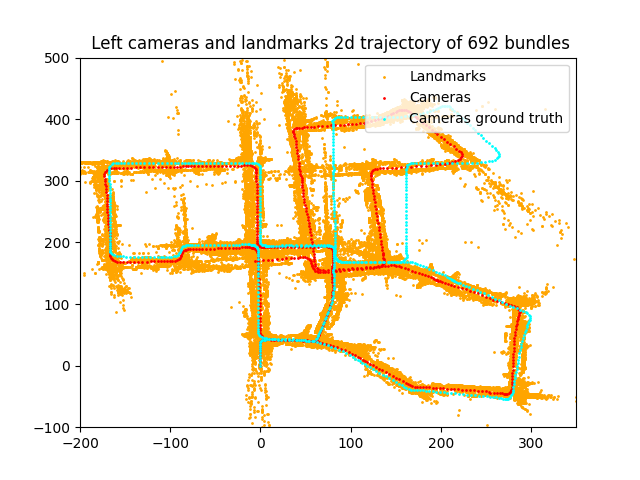
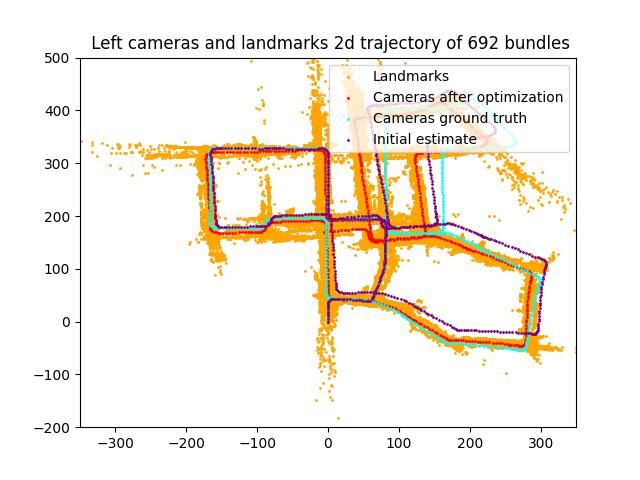
graph seems finr but there is still a bug

diff --git a/ex5.py b/ex5.py
@@ -150,7 +150,6 @@ def add_track_factors(db, graph, track, first_frame_ind, last_frame_ind, gtsam_f
     # Track's locations in frames_in_window
     left_locations, right_locations = utilities.get_track_frames_with_features(db, track,
                                                                                track_frames_inside_the_bundle)
-
     assert len(left_locations) == len(track_frames_inside_the_bundle)
     # Track's location at the Last frame for triangulations
     last_left_img_loc = left_locations[-1]
@@ -182,9 +181,7 @@ def add_track_factors(db, graph, track, first_frame_ind, last_frame_ind, gtsam_f
         graph.add(factor)
 
 
-def adjust_bundle(db, keyframe1, keyframe2, computed_tracks=None):
-    if computed_tracks is None:
-        computed_tracks = list()
+def adjust_bundle(db, keyframe1, keyframe2):
     graph = gtsam.NonlinearFactorGraph()
     initial_estimate = gtsam.Values()
     k = get_gtsam_k_matrix()
@@ -215,7 +212,7 @@ def adjust_bundle(db, keyframe1, keyframe2, computed_tracks=None):
         cur_cam_pose = utilities.reverse_ext(camera_relate_to_first_frame_trans)
         initial_estimate.insert(left_pose_symbol, gtsam.Pose3(cur_cam_pose))
 
-    gtsam_left_cam_pose = gtsam.Pose3(cur_cam_pose)
+    gtsam_last_left_cam_pose = gtsam.Pose3(cur_cam_pose)
 
     # For each track create measurements factors
     # todo: check weather those are the desired tracks? shouldnt it be all tracks totally inside the bundle?
@@ -224,22 +221,13 @@ def adjust_bundle(db, keyframe1, keyframe2, computed_tracks=None):
     tracks_in_frame = [db.tracks[track_id] for track_id in tracks_ids_in_frame]
     # todo : pu kavor hacelev!!!!!!!!!!!!!!!!!1
     # tracks_in_frame = [db.tracks[track_id] for track_id in tracks_ids_in_frame if
-    #                    db.tracks[track_id].get_last_frame_id() > keyframe2]
+    #                    db.tracks[track_id].get_last_frame_id() < keyframe2]
     for track in tracks_in_frame:
-        # # Check that this track has bot been computed yet and that it's length is satisfied
-        # if track.get_id() in self.__computed_tracks or track.get_last_frame_ind() < self.__second_key_frame:
-        #     continue
-
-        if track.track_id in computed_tracks:
-            continue
-
         # Create a gtsam object for the last frame for making the projection at the function "add_factors"
         # todo : can go out from the loop
-        gtsam_last_cam = gtsam.StereoCamera(gtsam_left_cam_pose, k)
+        gtsam_last_cam = gtsam.StereoCamera(gtsam_last_left_cam_pose, k)
         add_track_factors(db, graph, track, keyframe1, keyframe2, gtsam_last_cam, k, initial_estimate,
                           landmark_symbols)  # Todo: as before
-
-        computed_tracks.append(track.track_id)
 
     optimized_estimation = optimize_graph(graph, initial_estimate)
     bundle_data = BundleData(keyframe1, keyframe2, cameras_symbols, landmark_symbols, graph, initial_estimate)
@@ -281,13 +269,11 @@ def accum_scene(values, global_trans=None, plot=False):
 
 def adjust_all_bundles(db, keyframes):
     import tqdm
-    computed_tracks = []
     cameras = [gtsam.Pose3()]
-
     landmarks = []
     for keyframe1, keyframe2 in tqdm.tqdm(keyframes):
         try:
-            _, _, bundle_data = adjust_bundle(db, keyframe1, keyframe2, computed_tracks=[])
+            _, _, bundle_data = adjust_bundle(db, keyframe1, keyframe2)
 
             cameras.append(bundle_data.get_optimized_cameras_p3d())
             landmarks.append(bundle_data.get_optimized_landmarks_p3d())
@@ -300,7 +286,8 @@ def adjust_all_bundles(db, keyframes):
 def bundle_adjustment(db):
     # bundle_adjustment:
     gtsam_cameras_rel_to_bundle, all_landmarks_rel_to_bundle = adjust_all_bundles(db, utilities.fives)
-    # gtsam_cameras_rel_to_bundle, all_landmarks_rel_to_bundle = adjust_all_bundles(db, [(0, 5), (5, 10)])
+
+    # gtsam_cameras_rel_to_bundle, all_landmarks_rel_to_bundle , _= adjust_all_bundles(db, [(0, 5), (5, 10)])
 
     # convert relative landmarks and cameras poses to world coordinate:
     gtsam_cameras_rel_to_world = utilities.gtsam_left_cameras_relative_trans(gtsam_cameras_rel_to_bundle)
@@ -312,13 +299,16 @@ def bundle_adjustment(db):
     cameras_gt_3d = utilities.left_cameras_trajectory(ground_truth)
 
     # initial estimation:
-    initial_estimate_poses = utilities.get_initial_estimation_trajectory()
+    initial_estimate_cameras_poses = utilities.get_initial_estimate_cameras_poses(db.frames.values())[
+        ground_truth_keyframes]
 
     # plot:
     cameras_3d = utilities.gtsam_left_cameras_trajectory(gtsam_cameras_rel_to_world)
     exs_plots.plot_left_cam_2d_trajectory_and_3d_points_compared_to_ground_truth(cameras=cameras_3d,
                                                                                  landmarks=landmarks_rel_to_world,
-                                                                                 cameras_gt=cameras_gt_3d)
+                                                                                 cameras_gt=cameras_gt_3d,
+                                                                                 initial_estimate_poses=
+                                                                                 initial_estimate_cameras_poses)
 
 
 def main():

diff --git a/exs_plots.py b/exs_plots.py
@@ -457,17 +457,17 @@ def plot_left_cam_2d_trajectory_and_3d_points_compared_to_ground_truth(cameras=N
         ax.scatter(landmarks[:, 0], landmarks[:, 2], s=1, c='orange', label="Landmarks")
 
     if cameras is not None:
-        ax.scatter(cameras[:, 0], cameras[:, 2], s=1, c='red', label="Cameras")
+        ax.scatter(cameras[:, 0], cameras[:, 2], s=1, c='red', label="Cameras after optimization")
 
     if cameras_gt is not None:
         ax.scatter(cameras_gt[:, 0], cameras_gt[:, 2], s=1, c='cyan', label="Cameras ground truth")
 
     if initial_estimate_poses is not None:
-        ax.scatter(initial_estimate_poses[:, 0], initial_estimate_poses[:, 2], s=1, c='pink', label="Initial estimate")
+        ax.scatter(initial_estimate_poses[:, 0], initial_estimate_poses[:, 2], s=1, c='purple', label="Initial estimate")
 
     ax.legend(loc="upper right")
-    ax.set_xlim(-200, 350)
-    ax.set_ylim(-100, 500)
+    ax.set_xlim(-350, 350)
+    ax.set_ylim(-200, 500)
 
     # ax.set_xlim(-5, 5)
     # ax.set_ylim(-5, 50)

diff --git a/utilities.py b/utilities.py
@@ -384,6 +384,13 @@ def left_cameras_trajectory(relative_T_arr):
     return np.array(relative_cameras_pos_arr)
 
 
+def get_initial_estimate_cameras_poses(frames):
+    poses = []
+    for frame in frames:
+        ex_cam_mat = frame.global_extrinsic_mat
+        poses.append(-1 * ex_cam_mat[:, :3].T @ ex_cam_mat[:, 3])
+    return np.array(poses)
+
 # problems with
 # 150 155
 # 2845 2850
@@ -571,7 +578,3 @@ tens2 = [(0, 10), (10, 20), (20, 30), (30, 40), (40, 50), (50, 60), (60, 70), (7
          (3250, 3260), (3260, 3270), (3270, 3280), (3280, 3290), (3290, 3300), (3300, 3310), (3310, 3320), (3320, 3330),
          (3330, 3340), (3340, 3350), (3350, 3360), (3360, 3370), (3370, 3380), (3380, 3390), (3390, 3400), (3400, 3410),
          (3410, 3420), (3420, 3430), (3430, 3440)]
-
-
-def get_initial_estimation_trajectory():
-    return None
